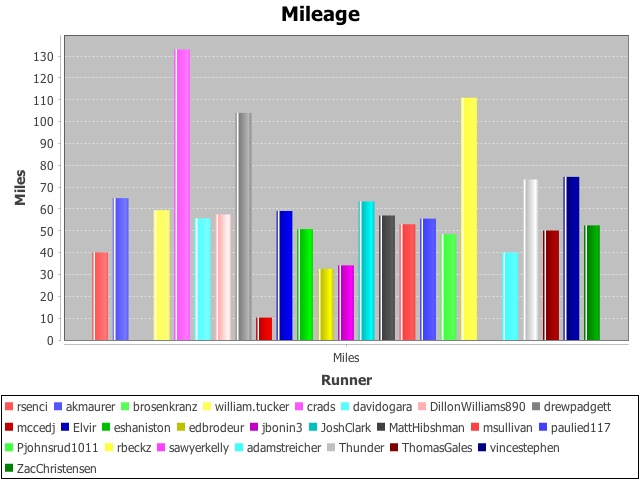
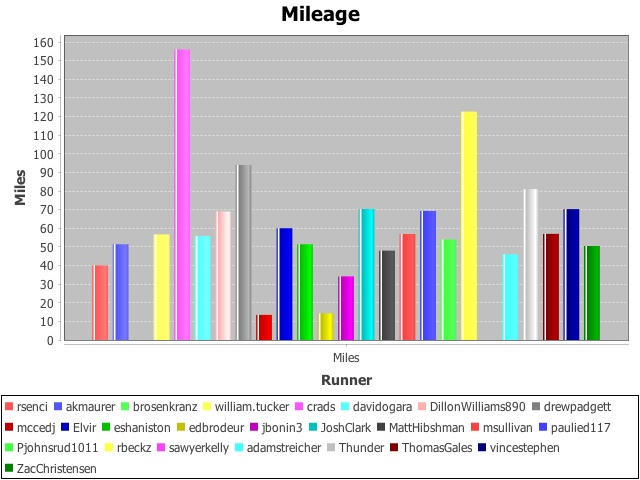
Works for the past week with specified team id

diff --git a/Logarun/src/com/logarun/Main.java b/Logarun/src/com/logarun/Main.java
@@ -1,8 +1,13 @@
 package com.logarun;
 
 import java.net.URL;
+import java.text.SimpleDateFormat;
+import java.util.Calendar;
+import java.util.Date;
+import java.util.GregorianCalendar;
 import java.util.List;
 
+import javax.swing.text.DateFormatter;
 import javax.xml.parsers.DocumentBuilder;
 import javax.xml.parsers.DocumentBuilderFactory;
 
@@ -16,50 +21,70 @@ public class Main {
 	public static void main(String[] args) {
 		TeamUsers users = new TeamUsers();
 		List<Runner> runners = users.getRunners();
+    	DocumentBuilderFactory dbFactory = DocumentBuilderFactory.newInstance();
+    	DocumentBuilder dBuilder;
+    	try {
+    		dBuilder = dbFactory.newDocumentBuilder();
+    	}
+    	catch(Exception e) {
+    		System.out.println(e.getMessage());
+    		return;
+    	}
 		for(Runner runner : runners) {
 		    try {
 		    	String url = String.format("http://www.logarun.com/xml.ashx?username=%s&type=view", runner.getUserName());
-		    	DocumentBuilderFactory dbFactory = DocumentBuilderFactory.newInstance();
-		    	DocumentBuilder dBuilder = dbFactory.newDocumentBuilder();
 		    	Document doc = dBuilder.parse(new URL(url).openStream());
 		     
 		    	//optional, but recommended
 		    	//read this - http://stackoverflow.com/questions/13786607/normalization-in-dom-parsing-with-java-how-does-it-work
 		    	doc.getDocumentElement().normalize();
 		     		     
-		    	NodeList nList = doc.getElementsByTagName("item");
+		    	// date will be initialized to current time
+		    	Date now = new Date();
+		    	Calendar nowCalendar = new GregorianCalendar();
+		    	nowCalendar.setTime(now);
+		    	long DAY_IN_MS = 1000 * 60 * 60 * 24;
+		    	Date weekAgo = new Date(now.getTime() - (DAY_IN_MS * 7));
+		    			    	
+		    	NodeList dateList = doc.getElementsByTagName("dayItem");
 		    	double miles = 0;
-		    	int temp = nList.getLength() - 1;
-		    	int end = nList.getLength() - 8;
-		    	while(temp > end) {
+		    	int dayIndex = dateList.getLength() - 1;
+		    	
+		    	while(now.compareTo(weekAgo) > 0) {		    		
+		    		Node dateNode = dateList.item(dayIndex);
 		    		
-		    		if(temp < 0) break;
-		    		Node nNode = nList.item(temp);
-		     
-		    		if (nNode.getNodeType() == Node.ELEMENT_NODE) {
-		     
-		    			Element eElement = (Element) nNode;
-		    			if(eElement.getAttribute("exercise").equals("Run")) {
-		    					miles += Double.parseDouble(eElement.getAttribute("value1"));
-					    		if((eElement.getAttribute("order").equals("2"))) {
-					    			System.out.println("Double by " + runner.getUserName());
-					    			end--;
-					    		}
-			    		}
-					    else {
-					    	end--;
-					    }
+		    		Element dateElement = (Element)dateNode;
+		    		String date = dateElement.getAttribute("date");
+		    		String[] dateArray = date.split("/");
+		    		for(String d : dateArray) System.out.println(d);
+		    		System.out.println(now);
+		    		nowCalendar.set(Calendar.MONTH, Integer.parseInt(dateArray[0])-1);
+		    		nowCalendar.set(Calendar.YEAR, Integer.parseInt(dateArray[2]));
+		    		nowCalendar.set(Calendar.DAY_OF_MONTH, Integer.parseInt(dateArray[1]));		    		
+		    		now = nowCalendar.getTime();
+
+		    		NodeList dayNodes = dateNode.getChildNodes();
+		   			for(int i = 0; i < dayNodes.getLength(); i++) {
+		   				Node exercise = dayNodes.item(i);
+		   				if(exercise.getNodeType() == Node.ELEMENT_NODE) {
+		   					Element exerciseElement = (Element)exercise;
+		   					if(exerciseElement.getAttribute("exercise").equals("Run")) {
+		   					miles += Double.parseDouble(exerciseElement.getAttribute("value1"));
+		    					System.out.println(miles + runner.getUserName());
+		   					}
+		   				}
 		    		}
-		    		temp--;
-		    		System.out.println(temp + " " + end);
+		     
+		    		dayIndex--;
 		    	}
-		    	runner.setMilesThisWeek(miles);
-		        } catch (Exception e) {
-		    	e.printStackTrace();
-		        }
+	    		runner.setMilesThisWeek(miles);
+		    }
+		    catch(Exception e) {
+		    	System.out.println(e.getMessage());
+		    }
 		}
 		MakeChart chart = new MakeChart("Logarun", runners);
 		System.out.println("Should have made chart");
-
+		
 	}
 }

diff --git a/Logarun/src/com/logarun/TeamUsers.java b/Logarun/src/com/logarun/TeamUsers.java
@@ -19,7 +19,7 @@ public class TeamUsers {
 	public List<Runner> getRunners() {
 		List<Runner> runners = new ArrayList<Runner>();
 	    try {
-	    	String url = "http://www.logarun.com/xml.ashx?type=userddl&teamid=1285";
+	    	String url = "http://www.logarun.com/xml.ashx?type=userddl&teamid=852";
 	    	DocumentBuilderFactory dbFactory = DocumentBuilderFactory.newInstance();
 	    	DocumentBuilder dBuilder = dbFactory.newDocumentBuilder();
 	    	Document doc = dBuilder.parse(new URL(url).openStream());

diff --git a/Logarun/src/com/logarun/MakeChart.java b/Logarun/src/com/logarun/MakeChart.java
@@ -27,7 +27,7 @@ public class MakeChart {
 	         
 	      int width = 640; /* Width of the image */
 	      int height = 480; /* Height of the image */ 
-	      File BarChart = new File( "WashUTraining.jpeg" ); 
+	      File BarChart = new File( "TartanTraining.jpeg" ); 
 	      try {
 			ChartUtilities.saveChartAsJPEG( BarChart , barChart , width , height );
 		} catch (IOException e) {
